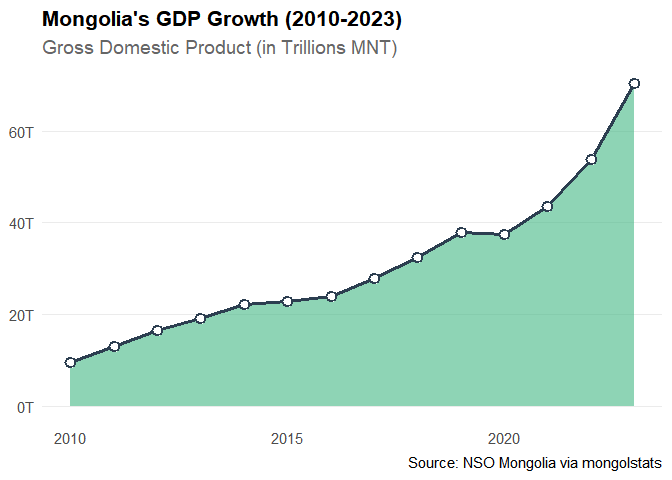
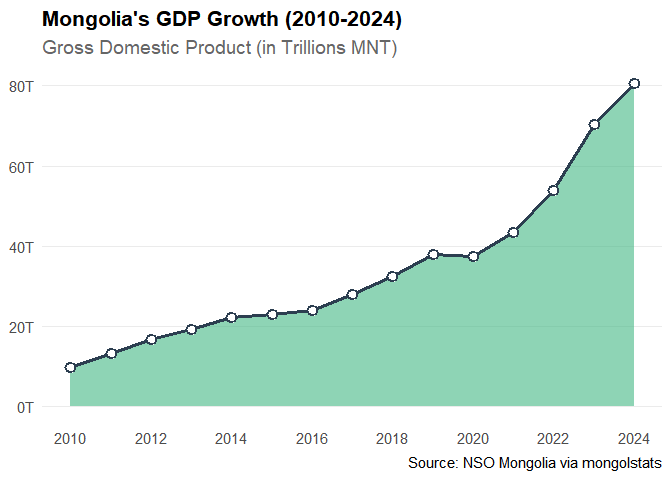
Refine package: cleanup, fix maps, update infant mortality data
- Clean up package structure (remove unused files)
- Fix region name mismatches in vignettes and README
- Update infant mortality data to monthly table (DT_NSO_2100_015V1)
- Improve population map visualization
- Fix x-axis labels in getting-started vignette

diff --git a/README.md b/README.md
@@ -58,7 +58,7 @@ gdp <- nso_data(
     "Year" = c(
       "2010", "2011", "2012", "2013", "2014",
       "2015", "2016", "2017", "2018", "2019",
-      "2020", "2021", "2022", "2023"
+      "2020", "2021", "2022", "2023", "2024"
     )
   ),
   labels = "en" # Get English labels
@@ -71,9 +71,9 @@ gdp |>
   geom_line(color = "#2c3e50", linewidth = 1.2) +
   geom_point(color = "#2c3e50", size = 3, shape = 21, fill = "white", stroke = 1.5) +
   scale_y_continuous(labels = scales::label_number(suffix = "T")) +
-  scale_x_continuous(breaks = scales::pretty_breaks()) +
+  scale_x_continuous(breaks = scales::breaks_pretty(n = 10)) +
   labs(
-    title = "Mongolia's GDP Growth (2010-2023)",
+    title = "Mongolia's GDP Growth (2010-2024)",
     subtitle = "Gross Domestic Product (in Trillions MNT)",
     x = NULL,
     y = NULL,
@@ -105,12 +105,24 @@ pop <- nso_data(
   tbl_id = "DT_NSO_0300_002V1",
   selections = list(
     "Region" = regions,
-    "Year" = "2023" # Use the year label
+    "Year" = "2024" # Use the year label
   ),
   labels = "en" # Get English labels for joining
 ) |>
-  filter(Region != "0") |> # Exclude National Total (code "0")
-  mutate(Region_en = trimws(Region_en)) # Clean leading spaces in labels
+  filter(!Region %in% c("0", "1", "2", "3", "4", "511")) |> # Exclude Total, Regions, and duplicate UB
+  mutate(
+    Region_en = trimws(Region_en),
+    Region_en = dplyr::case_match(
+      Region_en,
+      "Bayan-Ulgii" ~ "Bayan-Ölgii",
+      "Uvurkhangai" ~ "Övörkhangai",
+      "Khuvsgul" ~ "Hovsgel",
+      "Umnugovi" ~ "Ömnögovi",
+      "Tuv" ~ "Töv",
+      "Sukhbaatar" ~ "Sükhbaatar",
+      .default = Region_en
+    )
+  )
 
 # 2. Get Administrative Boundaries
 map <- mn_boundaries(level = "ADM1")
@@ -123,11 +135,13 @@ map |>
   scale_fill_viridis_c(
     option = "magma",
     direction = -1,
+    trans = "log10",
+    breaks = c(20000, 50000, 100000, 500000, 1500000),
     labels = scales::label_number(scale_cut = scales::cut_short_scale()),
     name = "Population"
   ) +
   labs(
-    title = "Population Distribution (2023)",
+    title = "Population Distribution (2024)",
     subtitle = "Mid-year resident population by Aimag",
     caption = "Source: NSO Mongolia"
   ) +
